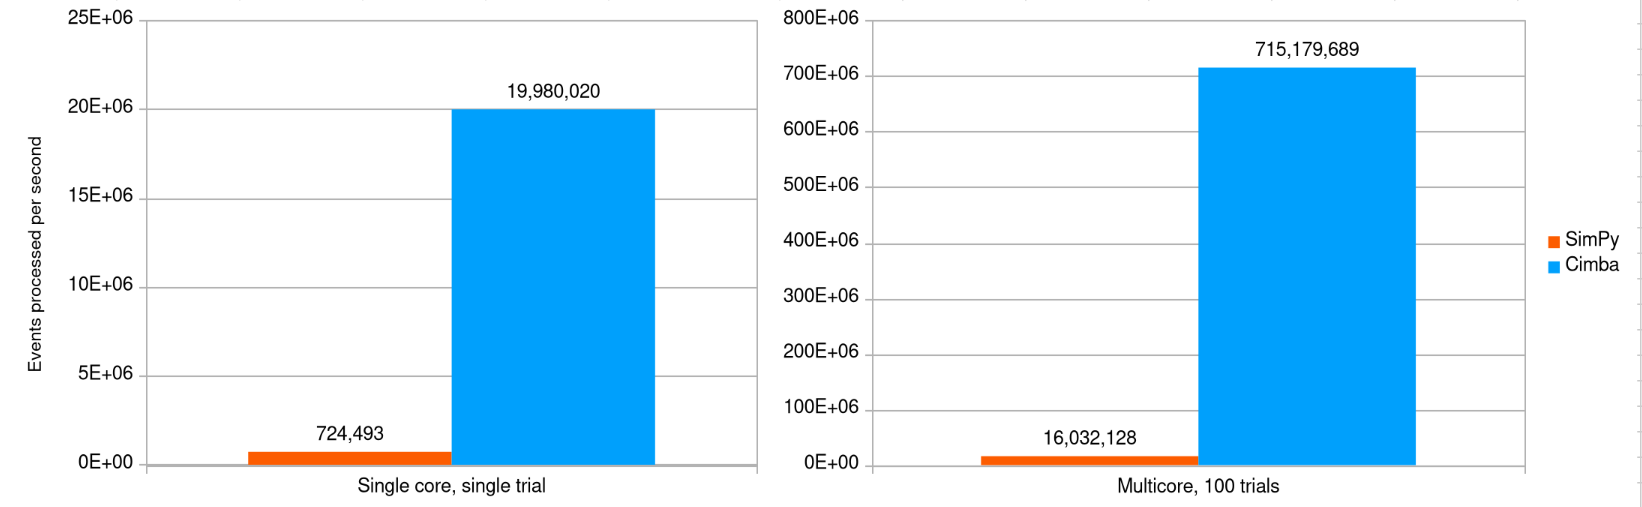
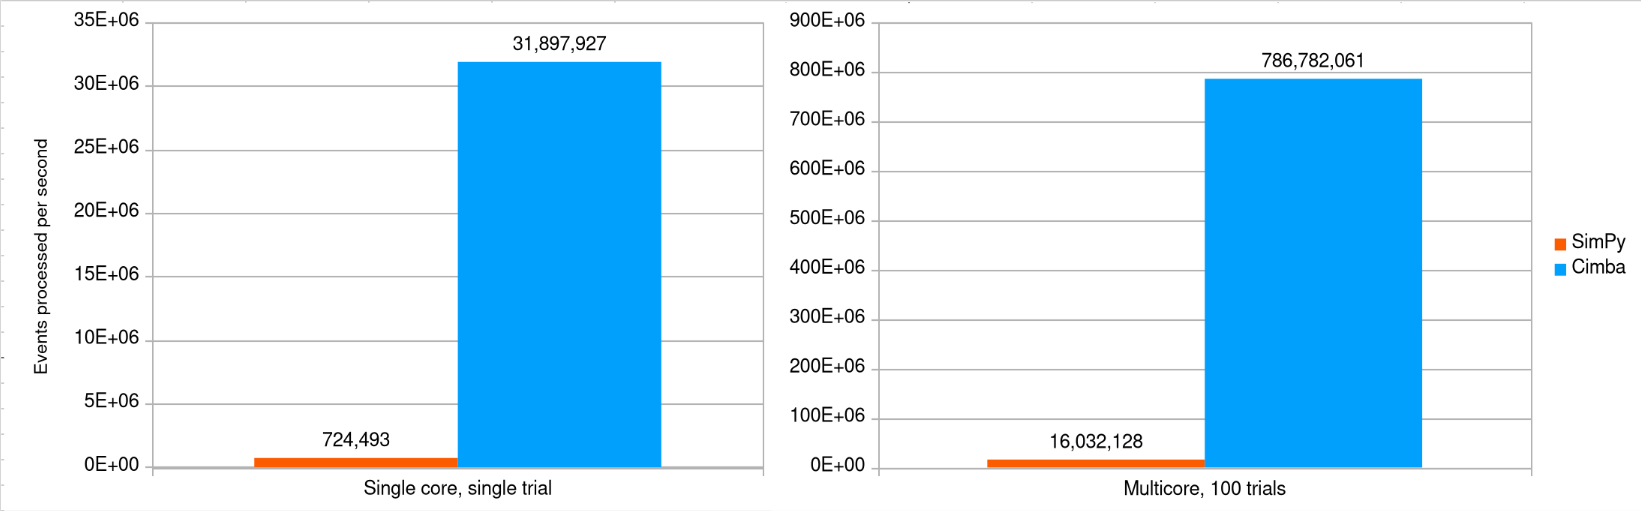
Updated documentation with latest speed tests

Changed region(s): [[0.0, 0.0, 1.0, 1.0], [0.9013, 0.8876, 0.9324, 0.9172], [0.4351, 0.2663, 0.4662, 0.2959]]

diff --git a/docs/welcome.rst b/docs/welcome.rst
@@ -27,10 +27,11 @@ It is fast, powerful, reliable, and free.
   intervals in your experiments and high density of data points along parameter
   variations.
 
-  In a M/M/1 queue benchmark, Cimba runs about *45 times faster* than SimPy with all
-  available cores in use. This corresponds to a 97.8 % reduction in run time. In fact,
-  Cimba runs faster on a single core (left chart, about 20 million events per second)
-  than SimPy does with all 64 cores (right chart, about 16 million events per second).
+  In a M/M/1 queue benchmark, Cimba runs about *45-50 times faster* than SimPy with all
+  available cores in use. This corresponds to a 98 % reduction in run time. In fact,
+  Cimba runs twice as fast on a single CPU core (left chart, about 32 million events per
+  second) than SimPy does with all 64 cores (right chart, about 16 million events per
+  second).
 
   .. image:: ../images/Speed_test_AMD_3970x.png
 

diff --git a/README.md b/README.md
@@ -14,9 +14,9 @@ Implementation status:
 
 Cimba models run 40-50 times faster than SimPy equivalents. The chart below shows the 
 number of simulated events processed per second of wall clock time on a simple M/M/1 
-queue implemented in SimPy and Cimba. Cimba runs this scenario 45 times faster than 
-SimPy with all CPU cores in use. _Cimba runs 25 % faster (20M events/sec) on a single 
-core than SimPy using all 64 cores (16M events/sec)._
+queue implemented in SimPy and Cimba. Cimba runs this scenario 49 times faster than 
+SimPy with all CPU cores in use. _Cimba runs twice as fast (32M events/sec) on a single 
+core as SimPy using all 64 cores (16M events/sec)._
 
 ![Speed_test_AMD_3970x.png](images/Speed_test_AMD_3970x.png)
 
@@ -29,7 +29,7 @@ It is fast, powerful, reliable, and free.
   intervals in your experiments and a high density of data points along parameter
   variations.
 
-  In the benchmark shown above, Cimba reduces the run time by 97.8 % compared to the 
+  In the benchmark shown above, Cimba reduces the run time by 98 % compared to the 
   same model in SimPy using all CPU cores. This translates into doing your simulation 
   experiments in seconds instead of minutes, or in minutes instead of hours.
 